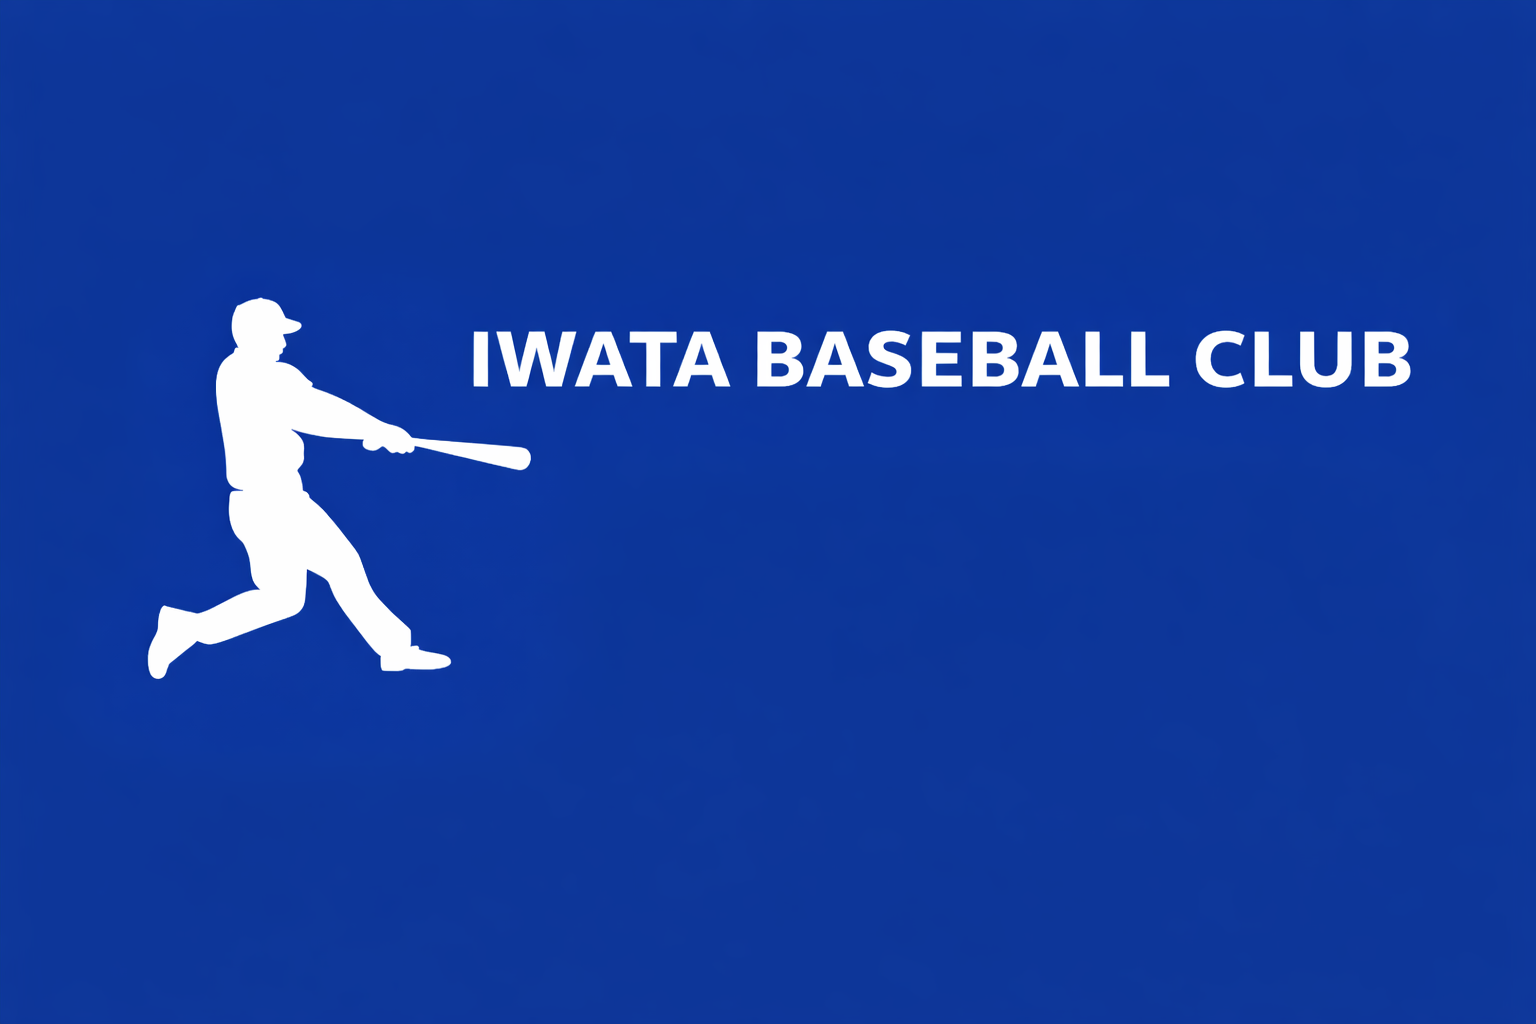
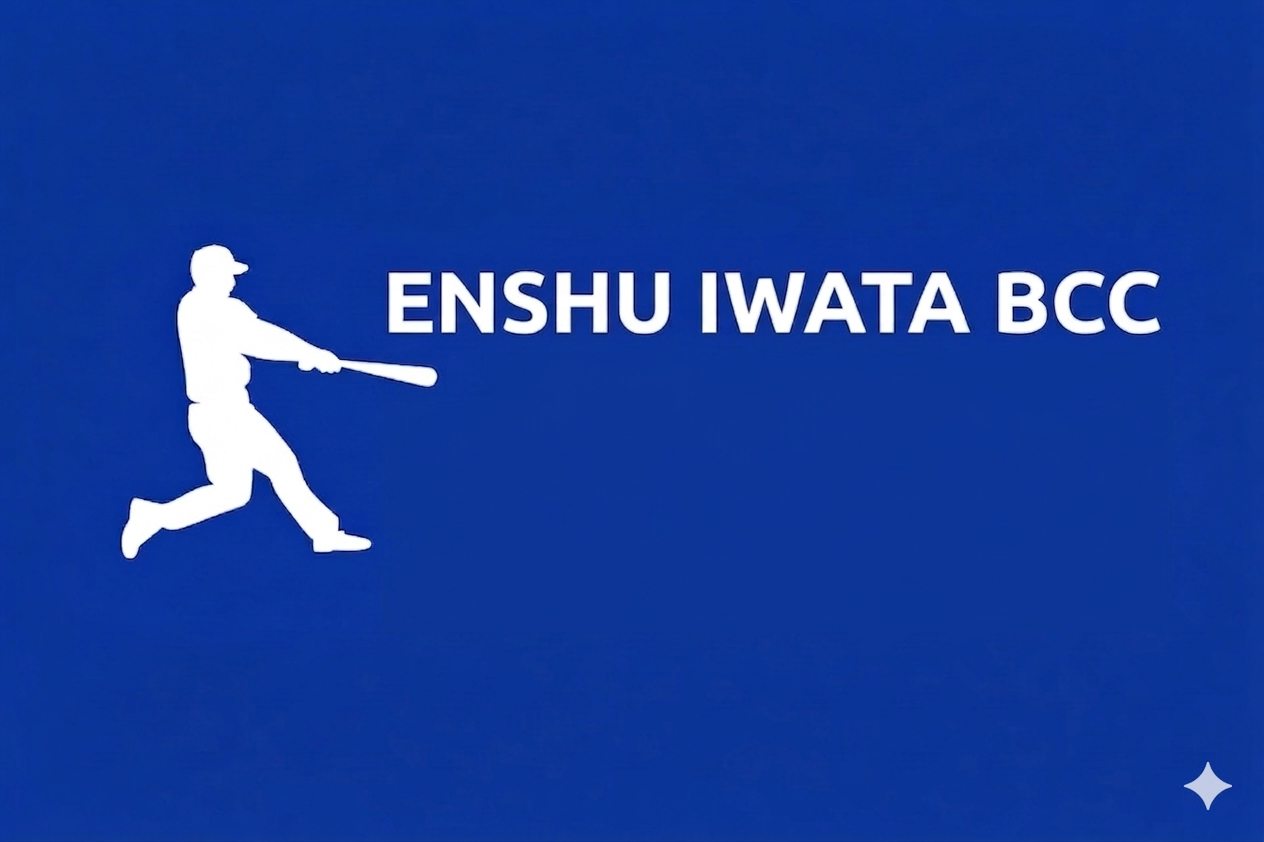
enshu

diff --git a/_layouts/default.html b/_layouts/default.html
@@ -21,7 +21,7 @@
   <!-- OGP / canonical（only production） -->
   {% if site.env == "production" %}
     <meta property="og:title" content="遠州磐田ベースボールクラブ 公式サイト">
-    <meta property="og:description" content="静岡県磐田市で活動する中学生向け軟式野球クラブ。2026年4月から活動開始">
+    <meta property="og:description" content="静岡県磐田市で活動する中学生向け軟式野球クラブ。2026年4月から活動">
     <meta property="og:type" content="website">
     <meta property="og:url" content="{{ page.url | absolute_url }}">
     <meta property="og:image" content="{{ '/images/ogp.png' | absolute_url }}">